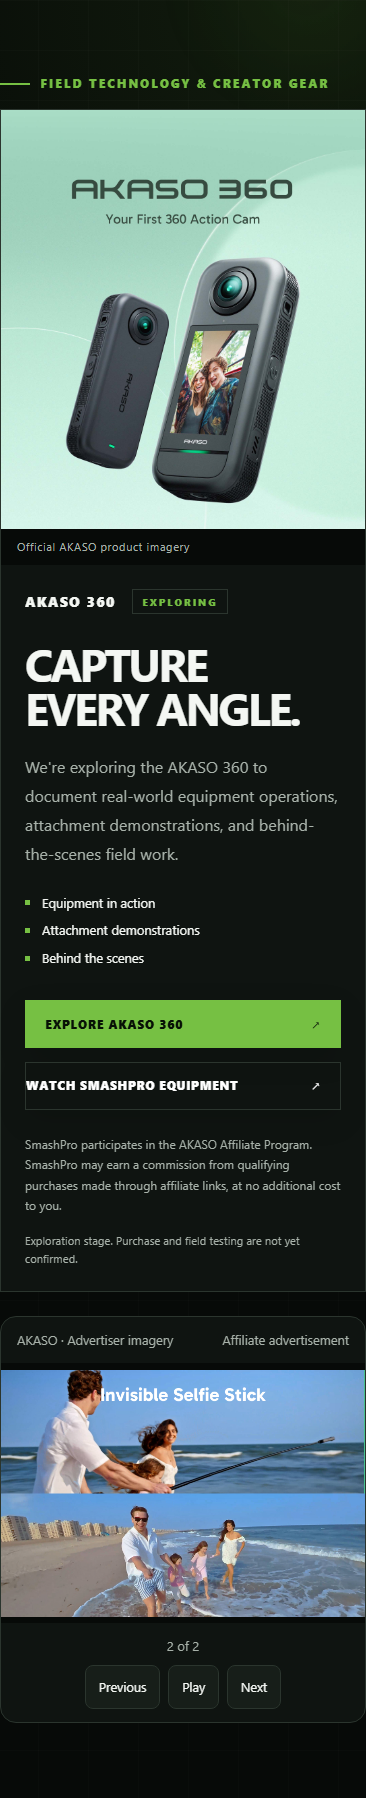
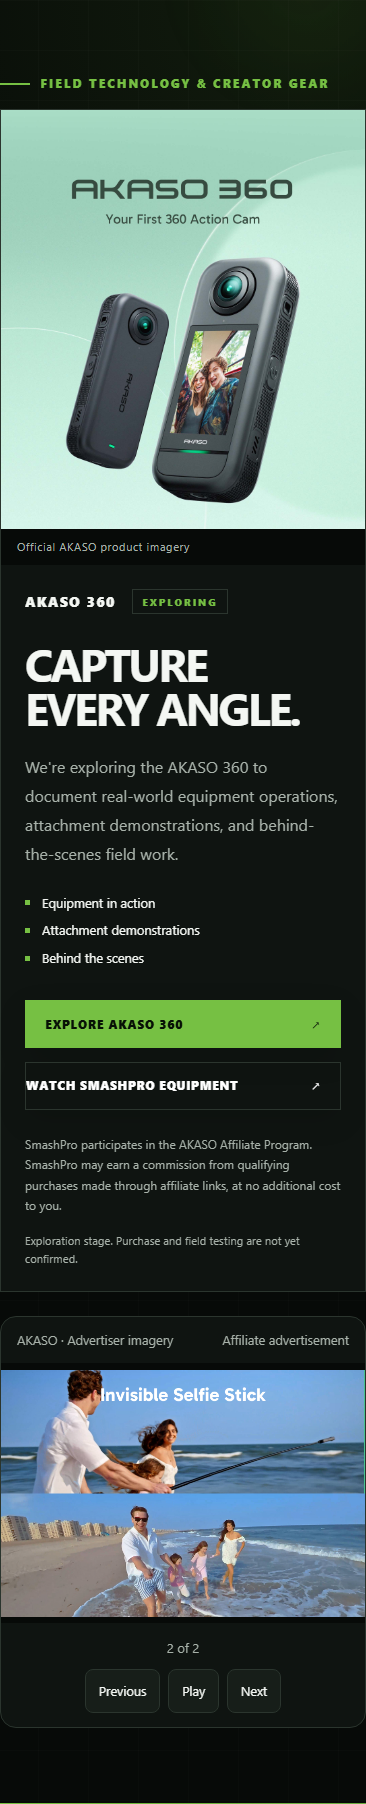
docs: capture final live rotation and cache verification

diff --git a/docs/AFFILIATE-ROTATION-20261013.md b/docs/AFFILIATE-ROTATION-20261013.md
@@ -36,12 +36,14 @@ Migration `2026-10-13-affiliate-rotation` applied through the existing authentic
 
 The [live Equipment catalog](https://smashpro.app/dashboard/api/public_gear.php?property=hq&placement=equipment.field-technology.akaso360) returns only the two authorized banners and the static AKASO 360 showcase. Garage and unknown scopes return 400; anonymous admin requests return 401. Exact Awin URLs and public-field allowlists passed verification.
 
[2 lines of base64/hex data omitted]
 
 Live browser checks at **390px and 1440px** verified automatic rotation, fixed product imagery, unchanged affiliate/YouTube CTAs, disclosure, section order, stable banner dimensions and no overflow or page errors. Impression requests returned 202; authenticated database readback showed two impressions each for creative records 1 and 5, zero clicks, and NULL conversions. No affiliate navigation was generated by loading the page. Local tests cover click submission and original link preservation; commission attribution is not claimed.
 
-The local HQ administration test also passed: weight, order, UTC schedule, optimistic revision, CSRF submission and performance display. All 135 Equipment unit tests and all 11 browser scenarios passed, along with builds, public-index/Passport validation and `git diff --check`. The browser timing test was corrected to use real elapsed time so it did not artificially trigger the catalog's network timeout. PHP 7.4 CI's guard harness retains the configured JSON extension.
+The local HQ administration test also passed: weight, order, UTC schedule, optimistic revision, CSRF submission and performance display. All 135 Equipment unit tests and all 13 browser scenarios passed, along with builds, public-index/Passport validation and `git diff --check`. The browser timing test was corrected to use real elapsed time so it did not artificially trigger the catalog's network timeout. PHP 7.4 CI's guard harness retains the configured JSON extension.
 
 No technical deployment blocker remains. The three excluded creatives need appropriate current content/authorization before activation. The owner's explicit backup waiver remains recorded; no database restore point or commission outcome is claimed.
 
 Live captures: [390px](release-captures/affiliate-rotation/production-390.png), [1440px](release-captures/affiliate-rotation/production-1440.png). [Browser receipt](release-captures/affiliate-rotation/production-validation.json) and [release/database receipt](release-captures/affiliate-rotation/hq-release.json).
+
+Final release cache verification: scoped gzip and Brotli revalidation of `/equipment/` replaced stale HTML referencing the previous bundle. Final captures use fresh browser contexts at the normal URL, without response interception or cache-busting query parameters.
